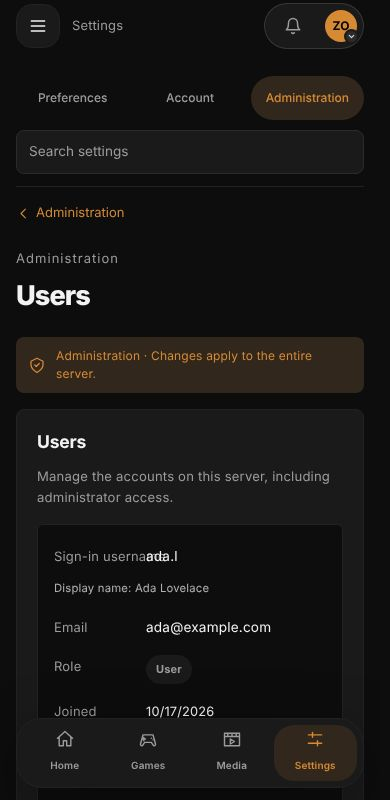
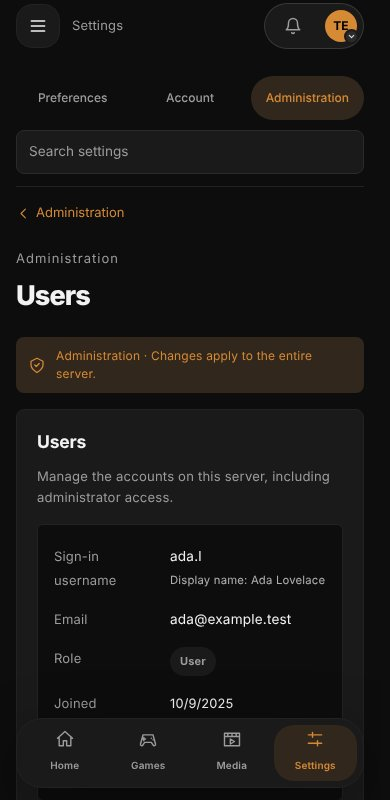
fix: keep admin user card labels apart from their values on phones
The longer "Sign-in username" label no longer fit the fixed 80px nowrap label
column and ran into the value. Let the label wrap in a wider column and wrap
the value so the display name line stays beside it. Refresh the phone
screenshots.

Claude-Session: https://claude.ai/code/session_011x2Wf3XbrUrQT8ZtugsNJM

diff --git a/src/frontend/src/tests/adminUsersCard.test.ts b/src/frontend/src/tests/adminUsersCard.test.ts
@@ -1,0 +1,53 @@
+// @vitest-environment happy-dom
+
+import { mount, flushPromises } from "@vue/test-utils";
+import { describe, expect, it, vi } from "vitest";
+import AdminSection from "../components/settings/AdminSection.vue";
+import source from "../components/settings/AdminSection.vue?raw";
+
+vi.mock("../services/admin", () => ({
+  listUsers: vi.fn().mockResolvedValue([
+    {
+      id: 1,
+      username: "ada.l",
+      display_name: "Ada Lovelace",
+      email: "ada@example.test",
+      is_admin: false,
+      created_at: "2026-01-01T00:00:00Z",
+    },
+  ]),
+  createUser: vi.fn(),
+  deleteUser: vi.fn(),
+  setUserAdmin: vi.fn(),
+}));
+vi.mock("../services/adminUsers", () => ({
+  listInvitations: vi.fn().mockResolvedValue([]),
+}));
+vi.mock("../services/passwordPolicy", () => ({
+  fetchPasswordPolicy: vi.fn().mockResolvedValue({}),
+  passwordValidationErrors: vi.fn().mockReturnValue([]),
+}));
+
+describe("admin users card", () => {
+  it("keeps the label separate from the username and display name value", async () => {
+    const wrapper = mount(AdminSection, {
+      global: {
+        stubs: { PluginAdminActions: true, PluginExtensionSlot: true },
+      },
+    });
+    await flushPromises();
+    const cell = wrapper.find('td[data-label="Sign-in username"]');
+    expect(cell.exists()).toBe(true);
+    const value = cell.find(".cell-value");
+    expect(value.text()).toContain("ada.l");
+    expect(value.text()).toContain("Display name: Ada Lovelace");
+    expect(cell.text()).not.toContain("Sign-in username");
+  });
+
+  it("lets the phone card label wrap instead of overflowing into the value", () => {
+    const rule = source.match(/td\[data-label\]::before \{[^}]*\}/)?.[0] ?? "";
+    expect(rule).toContain("white-space: normal");
+    expect(rule).not.toContain("white-space: nowrap");
+    expect(rule).toMatch(/flex: 0 0 \d+px/);
+  });
+});

diff --git a/src/frontend/src/components/settings/AdminSection.vue b/src/frontend/src/components/settings/AdminSection.vue
@@ -190,9 +190,11 @@ function openCreateForm() {
         <tbody>
           <tr v-for="user in users" :key="user.id">
             <td data-label="Sign-in username">
-              {{ user.username }}
-              <small v-if="user.display_name" class="muted display-name-line"
-                >Display name: {{ user.display_name }}</small
+              <span class="cell-value"
+                >{{ user.username }}
+                <small v-if="user.display_name" class="muted display-name-line"
+                  >Display name: {{ user.display_name }}</small
+                ></span
               >
             </td>
             <td data-label="Email">{{ user.email }}</td>
@@ -458,9 +460,8 @@ function openCreateForm() {
   }
   .user-table td[data-label]::before {
     content: attr(data-label);
-    width: 80px;
-    white-space: nowrap;
-    flex-shrink: 0;
+    flex: 0 0 104px;
+    white-space: normal;
     color: var(--ui-dim);
     font-size: var(--ui-font-small);
   }
@@ -468,6 +469,10 @@ function openCreateForm() {
     padding-top: 12px;
     border-top: 1px solid var(--ui-border-soft);
   }
+}
+.cell-value {
+  flex: 1 1 0;
+  min-width: 0;
 }
 .display-name-line {
   display: block;
